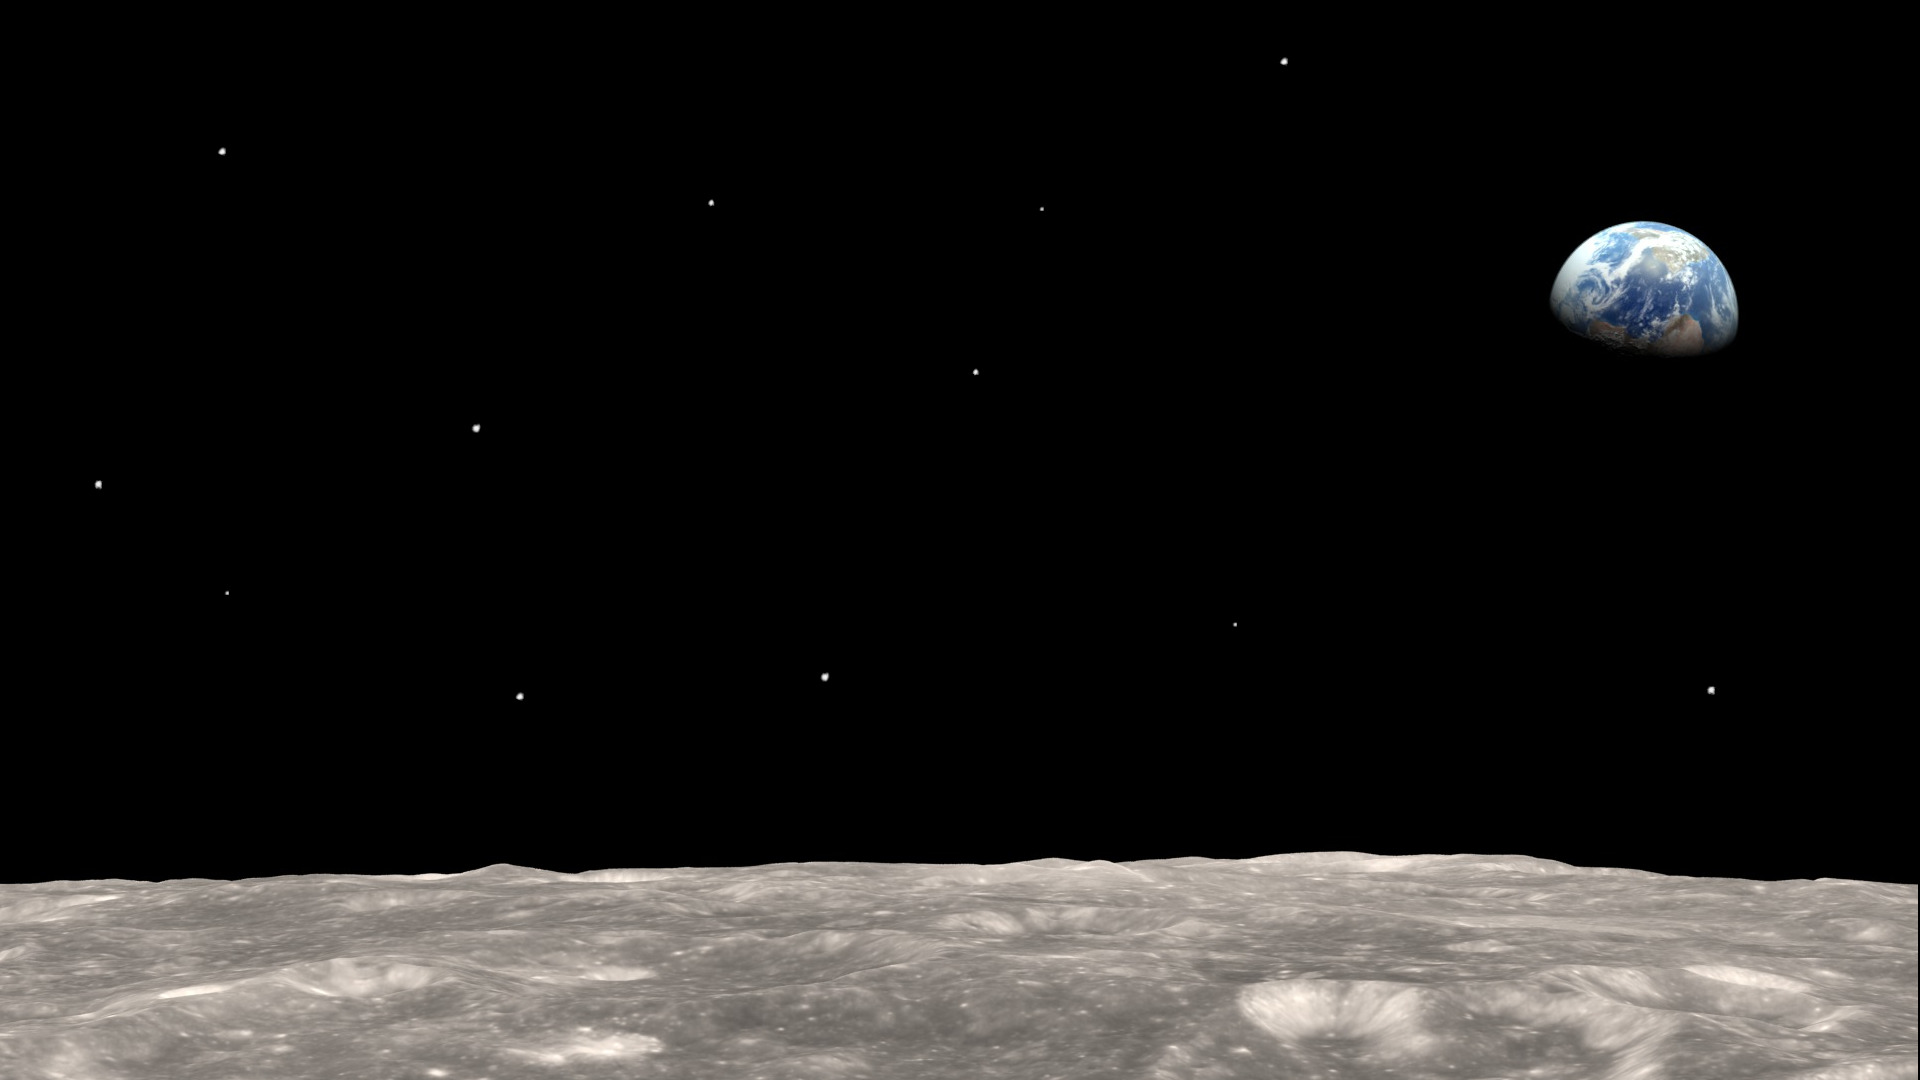
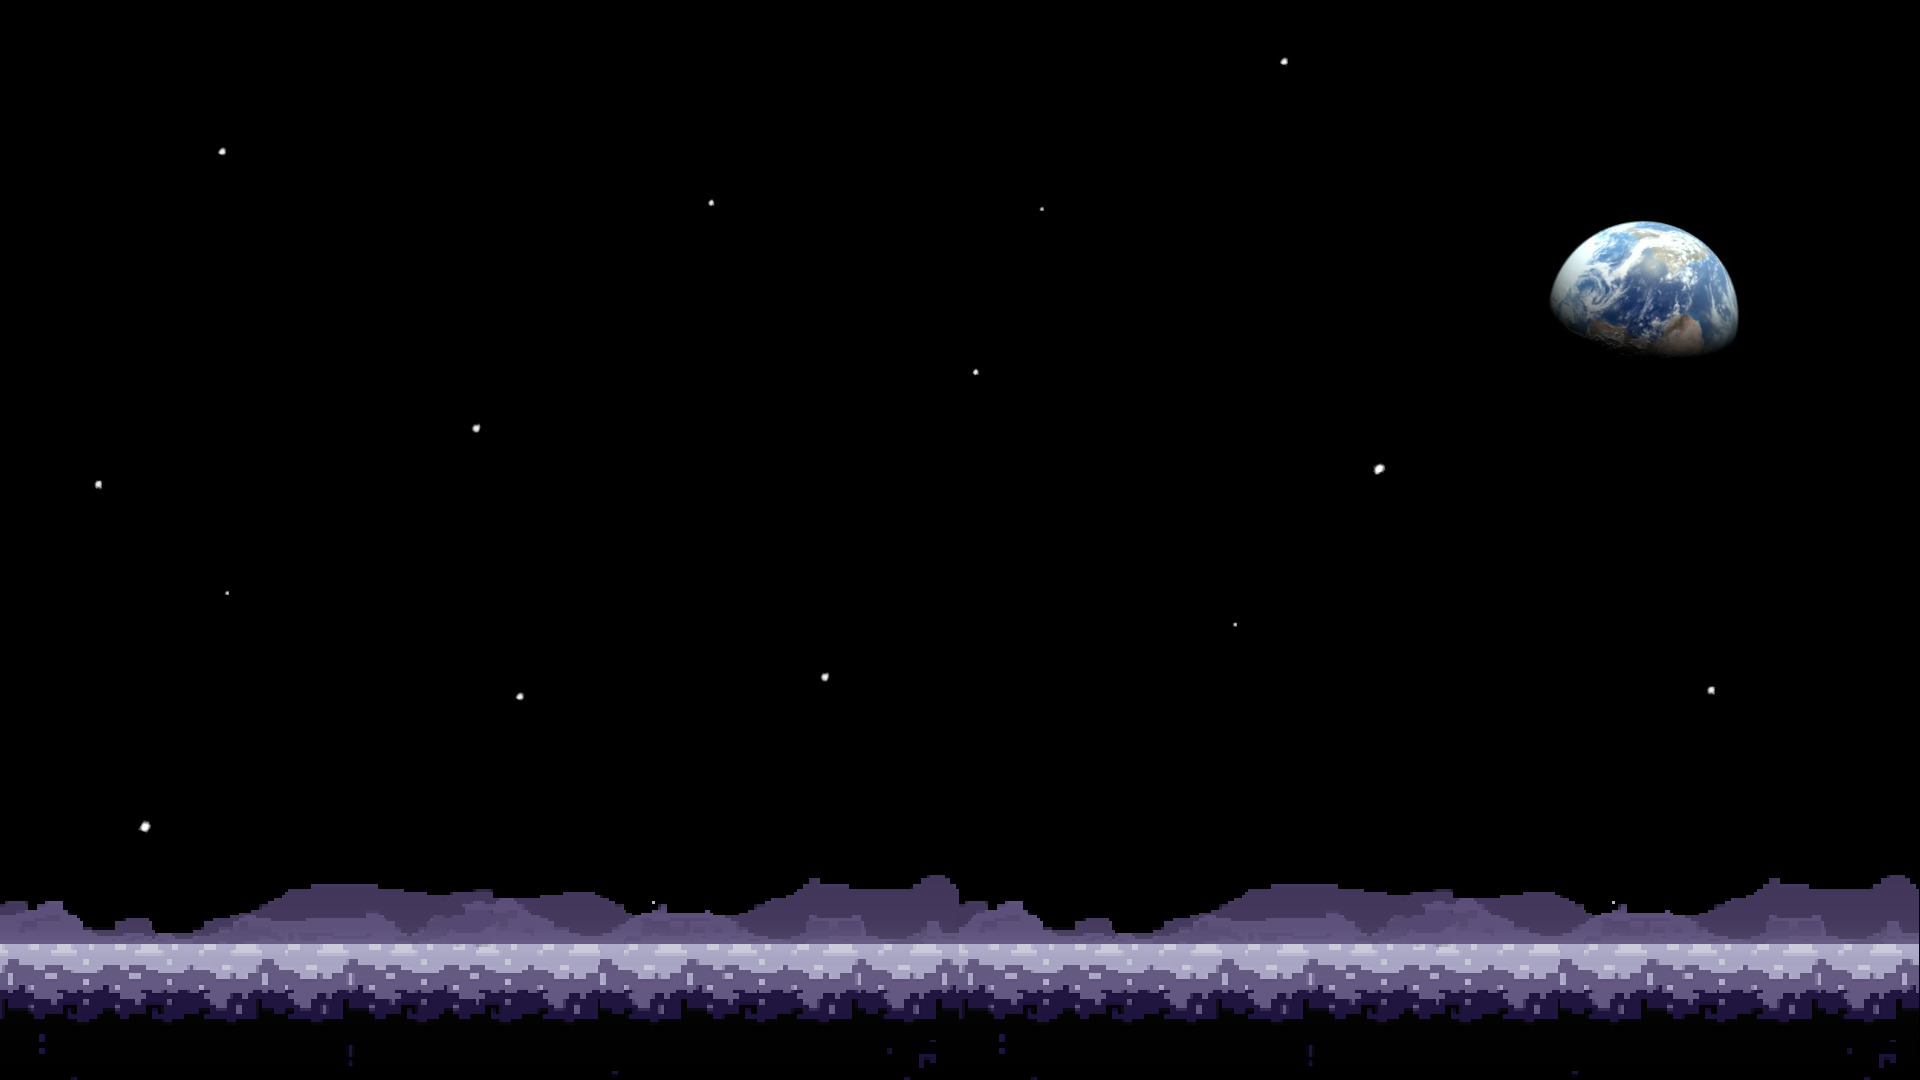
added collisions

Changed region(s): [[0.0, 0.7639, 1.0, 1.0]]

diff --git a/main.c b/main.c
@@ -1,4 +1,7 @@
 #include <stdio.h>
+#include <math.h>
+#include <stdbool.h>
+
 #include "raylib.h"
 #include "raymath.h"
 
@@ -10,44 +13,46 @@
 
 #define MAX_FPS         60
 
-#define GROUND_HEIGHT   200
+#define GROUND_HEIGHT   138     // Hard-coded, don't change
 
-#define LANDER_HEIGHT   100
+#define LANDER_HEIGHT   50
 #define LANDER_WIDTH    LANDER_HEIGHT
-#define LANDER_MASS     500
 #define LANDER_POS_X    300
 #define LANDER_POS_Y    300
 #define LANDER_POS_Z    0
 
-#define gravity 500
+#define gravity 120
+#define thrust  200
+#define torque  1
 
 // ======================== LUNAR LANDER ===============================
 
-struct LunarLander 
-{
-    float       mass;
-    Vector3     position;
-    Vector3     velocity;   // Here the z component represent angular velocity
-    
-    Rectangle   hitbox;
+enum landerStatus  {
+    IDLE,
+    ACTIVE,
+    CRASHED,
+    STATES_NUM,
+};
+ 
+struct LunarLander {
+    Vector3 position;
+    Vector3 velocity;   // Here the z component represent angular velocity
+
+    enum landerStatus status;
 };
 
-static struct LunarLander lunarLander = 
-{
-    .mass     = LANDER_MASS,
-    .position = 
-    { 
+static struct LunarLander lunarLander = {
+    .position = { 
         .x = LANDER_POS_X, 
         .y = LANDER_POS_Y, 
         .z = LANDER_POS_Z, 
     },
     .velocity = { 0, 0, 0 },
+    .status   = IDLE,
 };
 
-static inline Rectangle LanderHitbox(struct LunarLander* const lunarLander)
-{
-    return (Rectangle)
-    {
+static inline Rectangle LanderHitbox(struct LunarLander* const lunarLander) {
+    return (Rectangle) {
         lunarLander->position.x - LANDER_WIDTH / 2,
         lunarLander->position.y - LANDER_HEIGHT / 2,
         LANDER_WIDTH,
@@ -55,11 +60,9 @@ static inline Rectangle LanderHitbox(struct LunarLander* const lunarLander)
     };
 }
 
-void DrawLander(struct LunarLander* const lunarLander, Texture2D sprite) 
-{   
+void DrawLander(struct LunarLander* const lunarLander, Texture2D sprite) {   
     Rectangle src = { 0, 0, sprite.width, sprite.height };
-    Rectangle dst = 
-    {
+    Rectangle dst = {
         .x = lunarLander->position.x,
         .y = lunarLander->position.y,
         .width = LANDER_WIDTH,
@@ -71,8 +74,28 @@ void DrawLander(struct LunarLander* const lunarLander, Texture2D sprite)
     DrawTexturePro (sprite, src, dst, origin, rot, WHITE);
 }
 
-void UpdateLanderPosition(struct LunarLander* lunarLander, Vector3 acceleration, float dt) 
-{
+void UpdateLanderPosition(struct LunarLander* lunarLander, float dt) {
+    if (lunarLander->status == CRASHED) 
+        return;
+
+    Vector3 acceleration = { 0, 0, 0 };
+    acceleration.y += gravity;
+
+    if (IsKeyDown(KEY_LEFT))
+        lunarLander->position.z -= torque;
+
+    if (IsKeyDown(KEY_RIGHT))
+        lunarLander->position.z += torque;
+
+    if (IsKeyDown(KEY_SPACE)) {
+        lunarLander->status = ACTIVE;
+
+        acceleration.x += thrust * sinf(lunarLander->position.z * DEG2RAD);
+        acceleration.y -= thrust * cosf(lunarLander->position.z * DEG2RAD);
+    } else {
+        lunarLander->status = IDLE;
+    }
+
     lunarLander->velocity 
         = Vector3Add(lunarLander->velocity, Vector3Scale(acceleration, dt));
 
@@ -80,20 +103,17 @@ void UpdateLanderPosition(struct LunarLander* lunarLander, Vector3 acceleration,
         = Vector3Add(lunarLander->position, Vector3Scale(lunarLander->velocity, dt));
 }
 
-// =================================== MISC =====================================
+// =================================== SCENE =====================================
 
-static Rectangle ground = 
-{ 
+static Rectangle ground = { 
     .x = 0, 
     .y = WINDOW_HEIGHT - GROUND_HEIGHT, 
     .width = WINDOW_WIDTH, 
     .height = GROUND_HEIGHT
 };
 
-void DrawBackground(Texture2D background)
-{
-    DrawTexturePro
-    (
+void DrawBackground(Texture2D background){
+    DrawTexturePro (
         background,
         (Rectangle){ 0, 0, background.width, background.height },
         (Rectangle){ 0, 0, GetScreenWidth(), GetScreenHeight() },
@@ -105,31 +125,58 @@ void DrawBackground(Texture2D background)
 
 // =========================== MAIN ==================================
 
-int main(void) 
-{  
+int main(void) {  
     InitWindow(WINDOW_WIDTH, WINDOW_HEIGHT, WINDOW_TITLE);
+
     SetTargetFPS(MAX_FPS);
 
     Texture2D background = LoadTexture("media/bg.jpg");
-    Texture2D sprite = LoadTexture("media/lander.png");
-
-    while (!WindowShouldClose())
-    {
+    Texture2D sprite_0 = LoadTexture("media/sprite_0.png");
+    Texture2D sprite_1 = LoadTexture("media/sprite_1.png");
+    Texture2D sprite_2 = LoadTexture("media/sprite_2.png");
+    Texture2D sprite_3 = LoadTexture("media/sprite_3.png");
+    
+    for (long frame = 0; !WindowShouldClose(); frame++) {
         float dt = GetFrameTime();
 
-        Vector3 acceleration = { 0, 0, 0 };
-        acceleration.y += gravity;
+        UpdateLanderPosition(&lunarLander, dt);
 
-        UpdateLanderPosition(&lunarLander, acceleration, dt);
+        if(CheckCollisionRecs(LanderHitbox(&lunarLander), ground)) {
+            lunarLander.status = CRASHED;
+            lunarLander.position.y = ground.y - LANDER_HEIGHT / 2;
+            lunarLander.position.z = 0;
+            lunarLander.velocity = (Vector3) { 0, 0, 0 };
+        }
 
         BeginDrawing();
-            DrawBackground(background);
-            DrawLander(&lunarLander, sprite);
+        DrawBackground(background);
+
+        switch (lunarLander.status) {
+            case (IDLE):
+                DrawLander(&lunarLander, sprite_0);
+                break;
+            case (ACTIVE):
+                if (frame & (1 << 3))
+                    DrawLander(&lunarLander, sprite_1);
+                else
+                    DrawLander(&lunarLander, sprite_2);
+                break;
+            case (CRASHED):
+                DrawLander(&lunarLander, sprite_3);
+                break;
+            default:
+                break;
+        }
+
         EndDrawing();
     }
 
     UnloadTexture(background);
-    UnloadTexture(sprite); 
+    UnloadTexture(sprite_0);
+    UnloadTexture(sprite_1);
+    UnloadTexture(sprite_2);
+    UnloadTexture(sprite_3);
+
     CloseWindow();
 }
 
